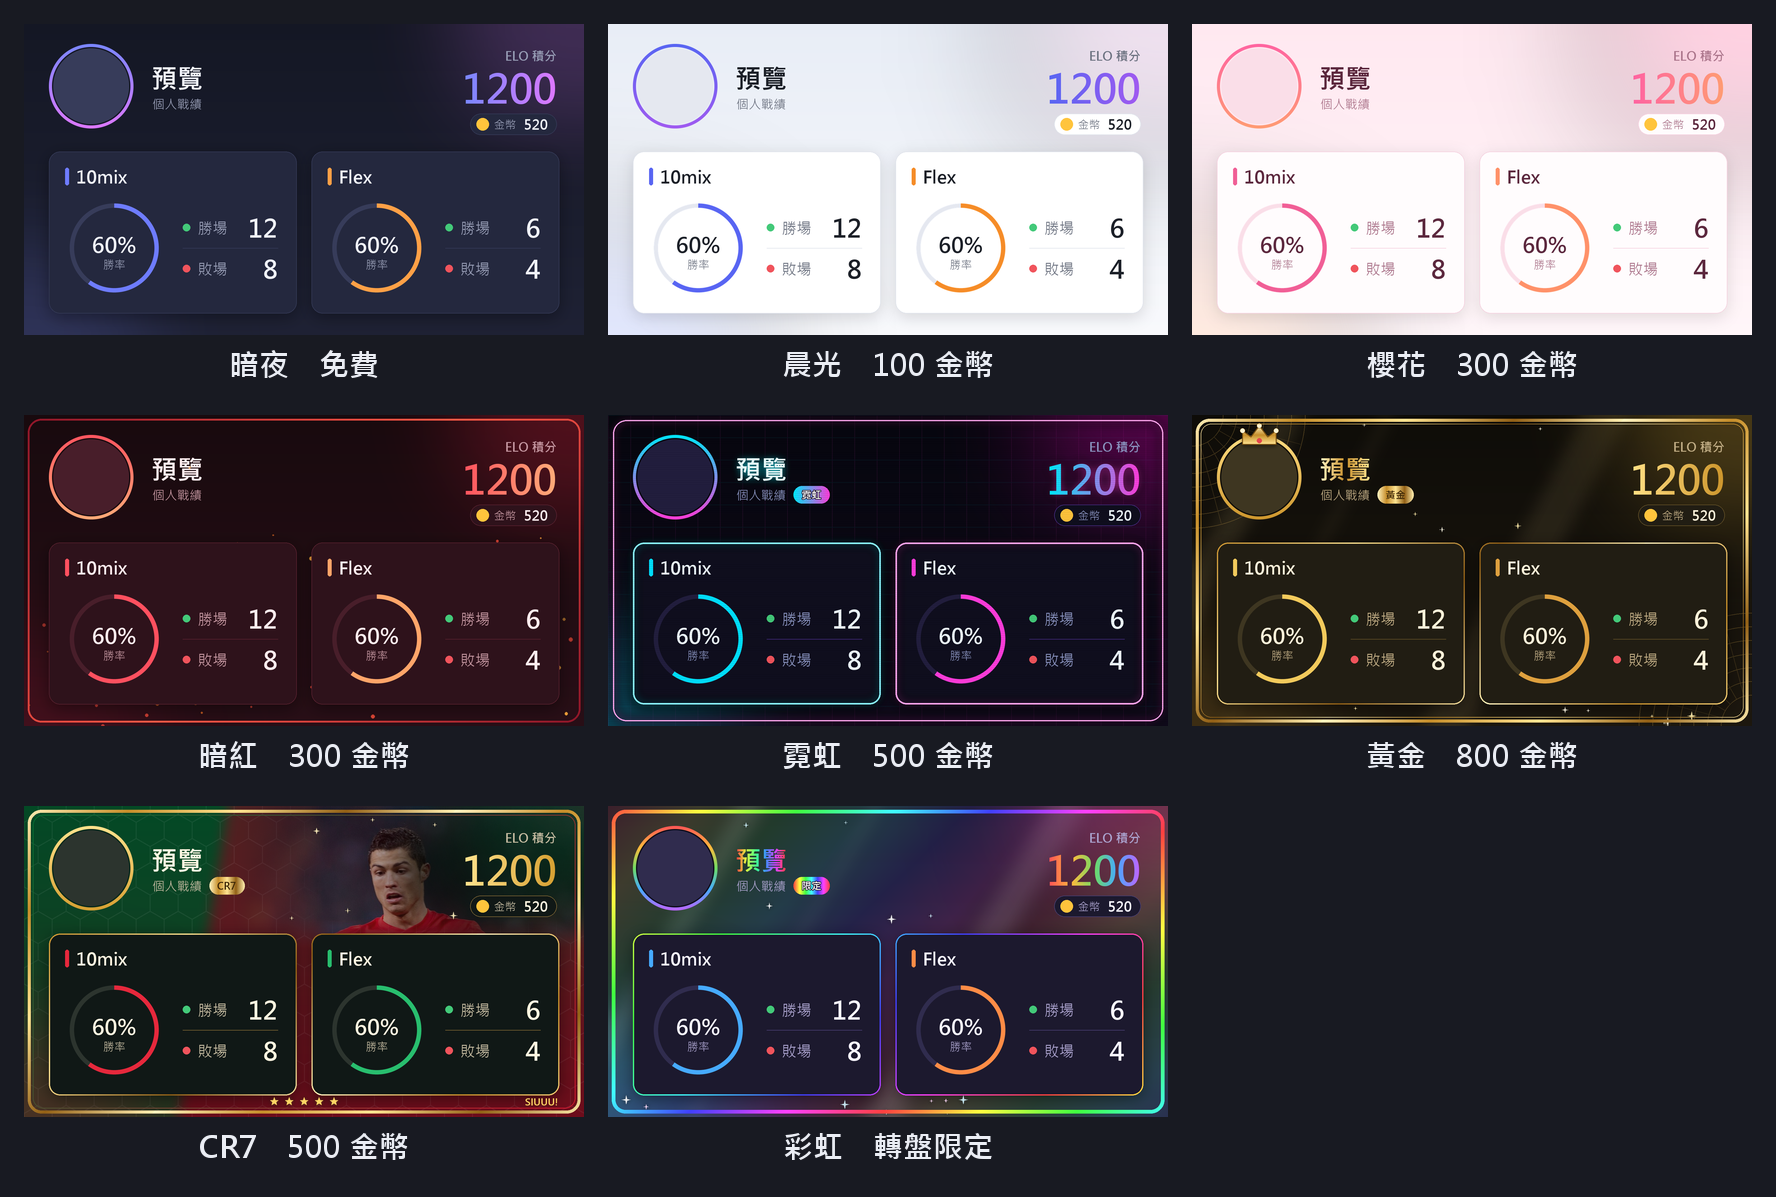
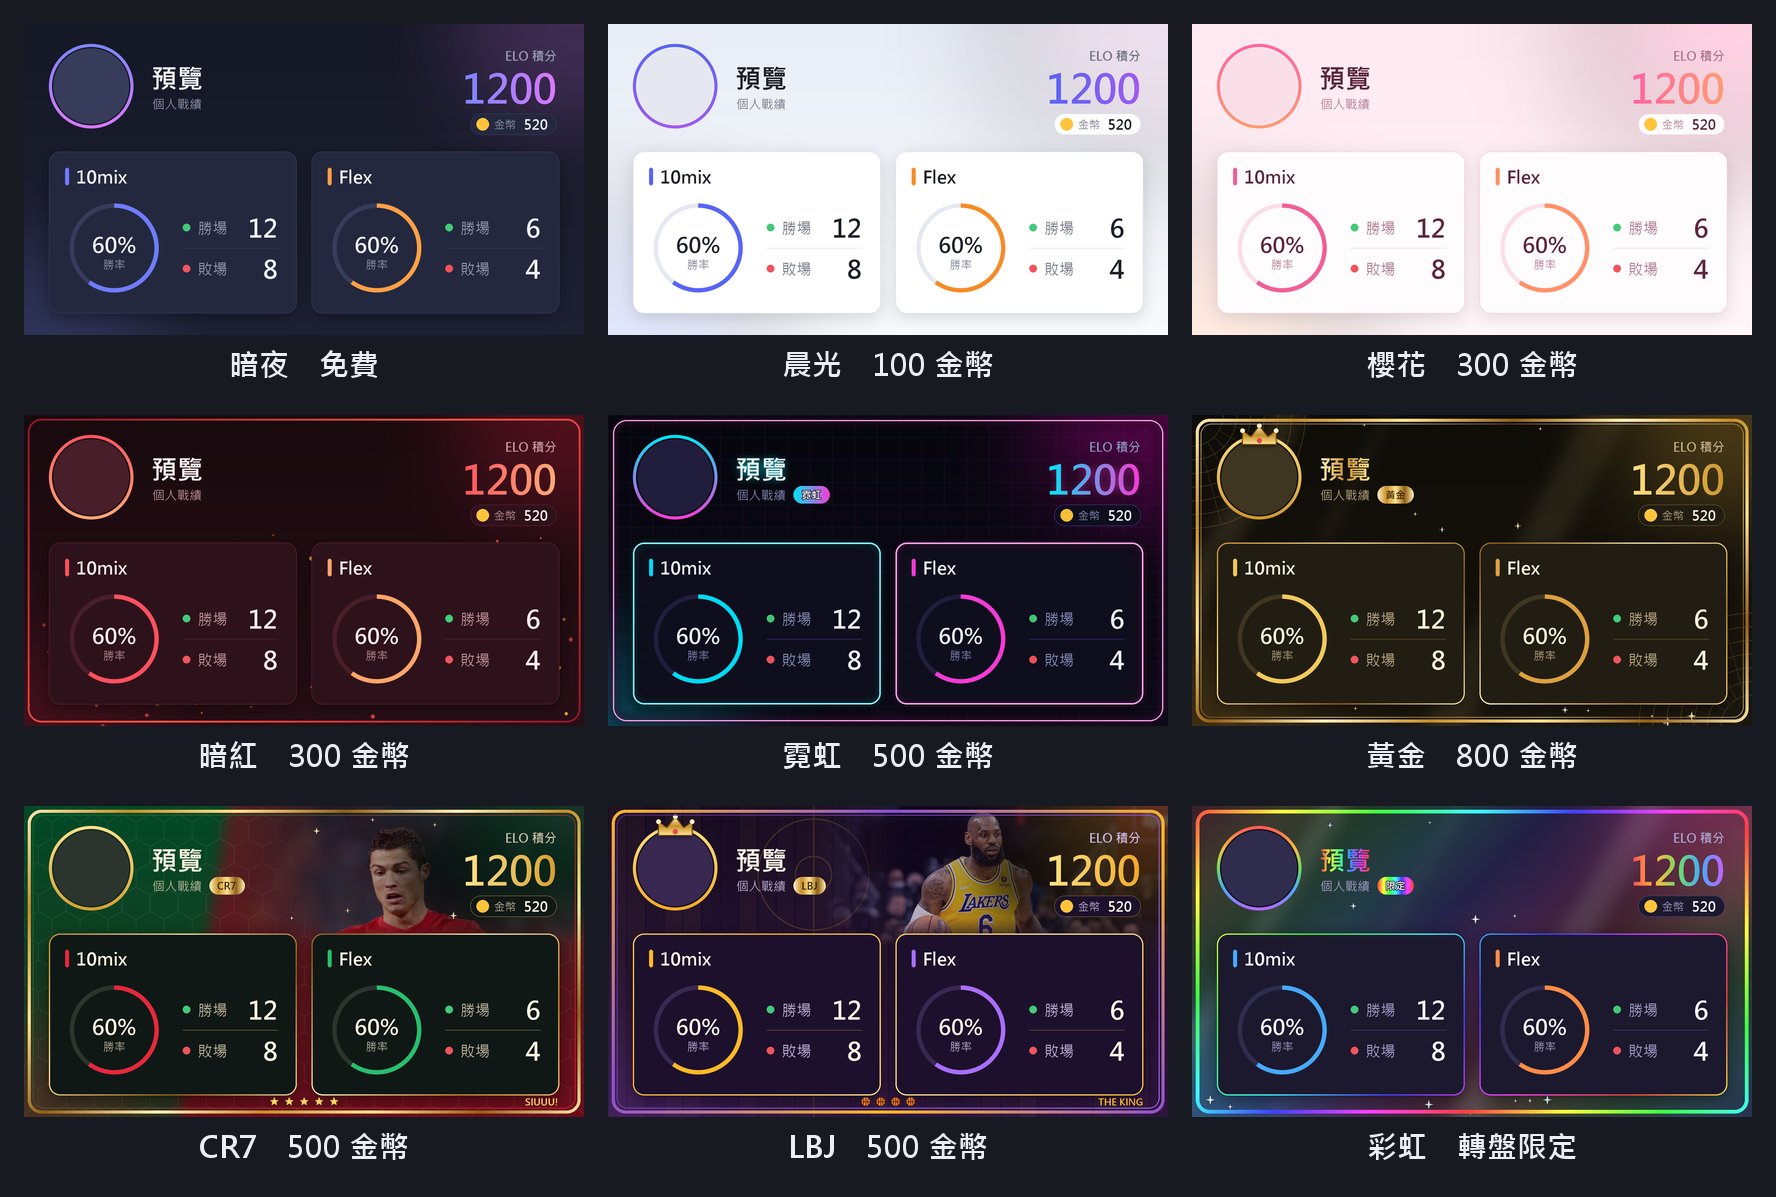
Add LBJ card to the shop (500)

Changed region(s): [[0.3407, 0.6491, 0.991, 0.9891], [0.5574, 0.8346, 0.5884, 0.8655]]

diff --git a/stat_card.py b/stat_card.py
@@ -63,6 +63,15 @@ STYLES = {
         art=Path(__file__).with_name("art") / "cr7.jpg", focus=(0.535, 0.30),
         art_zoom=0.66, art_brightness=0.78, art_tint=(130, 12, 30), art_at=(0.47, 0.27),
     )),
+    "lbj": ("LBJ", 500, dict(
+        bg=((18, 8, 32), (40, 16, 62)), glows=((253, 185, 39), (120, 60, 200)), glow_alpha=60,
+        panel=(28, 16, 44), edge=(110, 84, 46), track=(56, 40, 82), shadow=120,
+        text=(255, 248, 230), muted=(200, 182, 222),
+        accent=((255, 224, 130), (240, 170, 40)), mix=(253, 185, 39), flex=(170, 110, 255), fx="lbj",
+        # photo: "LeBron James dribbling (March 21, 2022).jpg" by Erik Drost, CC BY 2.0, Wikimedia Commons
+        art=Path(__file__).with_name("art") / "lbj.jpg", focus=(0.49, 0.13),
+        art_zoom=0.6, art_brightness=0.8, art_tint=(85, 37, 131), art_at=(0.46, 0.22),
+    )),
     "rainbow": ("彩虹", None, dict(
         bg=((14, 12, 26), (24, 20, 40)), glows=((255, 90, 170), (70, 190, 255)), glow_alpha=70,
         panel=(28, 25, 46), edge=(72, 62, 112), track=(48, 44, 78), shadow=110,
@@ -235,7 +244,8 @@ def mode_panel(img, x, y, w, h, title, color, games, wins, t):
 
 GOLD_FOIL = [(255, 242, 190), (198, 142, 42), (255, 228, 145), (146, 96, 22), (255, 238, 175)]
 NEON_CYAN, NEON_PINK = (0, 235, 255), (255, 60, 220)
-BADGES = {"gold": "黃金", "rainbow": "限定", "neon": "霓虹", "cr7": "CR7"}
+BADGES = {"gold": "黃金", "rainbow": "限定", "neon": "霓虹", "cr7": "CR7", "lbj": "LBJ"}
+LAKERS_PURPLE, LAKERS_GOLD = (85, 37, 131), (253, 185, 39)
 PT_GREEN, PT_RED = (0, 110, 50), (205, 20, 45)
 
 
@@ -394,7 +404,7 @@ def badge(img, x, y, fx):
     d = ImageDraw.Draw(img)
     tw = d.textlength(text, font=f) / S
     box = (x, y - 14, x + tw + 26, y + 14)
-    fill_at = {"gold": gold_at, "cr7": gold_at, "rainbow": rainbow_at,
+    fill_at = {"gold": gold_at, "cr7": gold_at, "lbj": gold_at, "rainbow": rainbow_at,
                "neon": lambda t: lerp(NEON_CYAN, NEON_PINK, t)}[fx]
     mask = Image.new("L", img.size, 0)
     ImageDraw.Draw(mask).rounded_rectangle(s(*box), radius=14 * S, fill=255)
@@ -403,7 +413,7 @@ def badge(img, x, y, fx):
     for xx in range(round(box[0] * S), round(box[2] * S) + 1):
         gd.line([(xx, 0), (xx, img.size[1])], fill=fill_at((xx / S - box[0]) / (box[2] - box[0])))
     img.paste(grad, (0, 0), mask)
-    on_gold = fx in ("gold", "cr7")
+    on_gold = fx in ("gold", "cr7", "lbj")
     text_col = (60, 38, 6) if on_gold else (255, 255, 255)
     d.text(s(x + 13 + tw / 2, y), text, font=f, fill=text_col, anchor="mm",
            stroke_width=0 if on_gold else S, stroke_fill=(30, 20, 40))
@@ -504,6 +514,45 @@ def cr7_background(img, t):
     header_art(img, t)
 
 
+def lbj_background(img, t):
+    planks = Image.new("RGBA", img.size, (0, 0, 0, 0))  # hardwood floor
+    pd = ImageDraw.Draw(planks)
+    rnd = random.Random(23)
+    for x in range(0, W, 30):
+        pd.rectangle(s(x, 0, x + 29, H), fill=(200, 140, 70, rnd.randint(8, 22)))
+        pd.line(s(x, 0, x, H), fill=(0, 0, 0, 40), width=S)
+    img.alpha_composite(planks)
+    court = Image.new("RGBA", img.size, (0, 0, 0, 0))  # centre circle and half-court line
+    cd = ImageDraw.Draw(court)
+    for r in (90, 30):
+        cd.ellipse(s(330 - r, 110 - r, 330 + r, 110 + r), outline=(*LAKERS_GOLD, 50), width=2 * S)
+    cd.line(s(330, 0, 330, H), fill=(*LAKERS_GOLD, 50), width=2 * S)
+    img.alpha_composite(court)
+    header_art(img, t)
+
+
+def basketball(d, x, y, r):
+    d.ellipse(s(x - r, y - r, x + r, y + r), fill=(235, 120, 40, 255), outline=(60, 25, 10, 255), width=S)
+    d.line(s(x - r, y, x + r, y), fill=(60, 25, 10, 255), width=S)
+    d.line(s(x, y - r, x, y + r), fill=(60, 25, 10, 255), width=S)
+    d.arc(s(x - r * 1.6, y - r, x - r * 0.4, y + r), -60, 60, fill=(60, 25, 10, 255), width=S)
+    d.arc(s(x + r * 0.4, y - r, x + r * 1.6, y + r), 120, 240, fill=(60, 25, 10, 255), width=S)
+
+
+def lbj_foreground(img, panels):
+    for box in panels:
+        gradient_outline(img, box, lambda t: lerp(LAKERS_GOLD, (255, 230, 150), abs(t * 2 - 1)), 2, 18, repeats=1.5)
+    gradient_outline(img, (6, 6, W - 6, H - 6), lambda t: grad_color([LAKERS_GOLD, (140, 80, 210), LAKERS_GOLD], t),
+                     5, 22, repeats=1.5)
+    gradient_outline(img, (14, 14, W - 14, H - 14), lambda t: lerp(LAKERS_PURPLE, (170, 110, 255), t), 1.5, 17)
+    balls = Image.new("RGBA", img.size, (0, 0, 0, 0))
+    bd = ImageDraw.Draw(balls)
+    for i in range(4):  # 4 championships
+        basketball(bd, W / 2 - 36 + i * 24, 475, 7.5)
+    img.alpha_composite(balls)
+    ImageDraw.Draw(img).text(s(W - 40, 475), "THE KING", font=font("bold", 15), fill=LAKERS_GOLD, anchor="rm")
+
+
 def cr7_foreground(img, panels):
     for box in panels:
         gradient_outline(img, box, gold_at, 2, 18, repeats=1.5)
@@ -561,6 +610,8 @@ def render_card_image(name, avatar_bytes, elo, credits, mix, flex, style="dark")
         champion_background(img, t)
     elif fx == "cr7":
         cr7_background(img, t)
+    elif fx == "lbj":
+        lbj_background(img, t)
     else:
         background_fx(img, fx)
     glow(img, (W - 80, 40), 180, t["glows"][0], t["glow_alpha"])
@@ -568,7 +619,7 @@ def render_card_image(name, avatar_bytes, elo, credits, mix, flex, style="dark")
 
     # header: avatar (+ crown for gold)
     img.alpha_composite(avatar_with_ring(avatar_bytes, 136, t), s(40, 32))
-    if fx == "gold":
+    if fx in ("gold", "lbj"):  # 黃金, and The King
         crown(img, 108, 17)
     draw = ImageDraw.Draw(img)
 
@@ -618,6 +669,8 @@ def render_card_image(name, avatar_bytes, elo, credits, mix, flex, style="dark")
         champion_foreground(img, t, panels)
     elif fx == "cr7":
         cr7_foreground(img, panels)
+    elif fx == "lbj":
+        lbj_foreground(img, panels)
     else:
         foreground_fx(img, fx, panels)
     return img

diff --git a/README.md b/README.md
@@ -47,6 +47,7 @@
 | 霓虹 | 500 金幣 | 霓虹發光外框、網格背景、掃描線、「霓虹」徽章 |
 | 黃金 | 800 金幣 | 頭像皇冠、金箔名字及外框、裝飾藝術花紋、閃光、「黃金」徽章 |
 | CR7 | 500 金幣 | C 朗相片、葡萄牙紅綠背景、足球六角紋、金色外框、五粒星、SIUUU!、「CR7」徽章 |
+| LBJ | 500 金幣 | 勒邦占士相片、湖人紫金配色、木地板同球場線、頭像皇冠、四個籃球（四冠）、THE KING、「LBJ」徽章 |
 | 彩虹 | 轉盤限定 | 全息彩虹背景、彩虹名字及外框、閃光、「限定」徽章 |
 
 ![卡面商店](shop_preview.png)
@@ -99,5 +100,7 @@
 ---
 
 CR7 卡面相片：[Argentine - Portugal - Cristiano Ronaldo.jpg](https://commons.wikimedia.org/wiki/File:Argentine_-_Portugal_-_Cristiano_Ronaldo.jpg)，攝影：Ludovic Péron，授權：[CC BY-SA 3.0](https://creativecommons.org/licenses/by-sa/3.0/)（已裁剪及調色）。
+
+LBJ 卡面相片：[LeBron James dribbling (March 21, 2022).jpg](https://commons.wikimedia.org/wiki/File:LeBron_James_dribbling_(March_21,_2022).jpg)，攝影：Erik Drost，授權：[CC BY 2.0](https://creativecommons.org/licenses/by/2.0/)（已裁剪及調色）。
 
 收網機械人 isn't endorsed by Riot Games and doesn't reflect the views or opinions of Riot Games or anyone officially involved in producing or managing Riot Games properties. Riot Games, and all associated properties are trademarks or registered trademarks of Riot Games, Inc.
